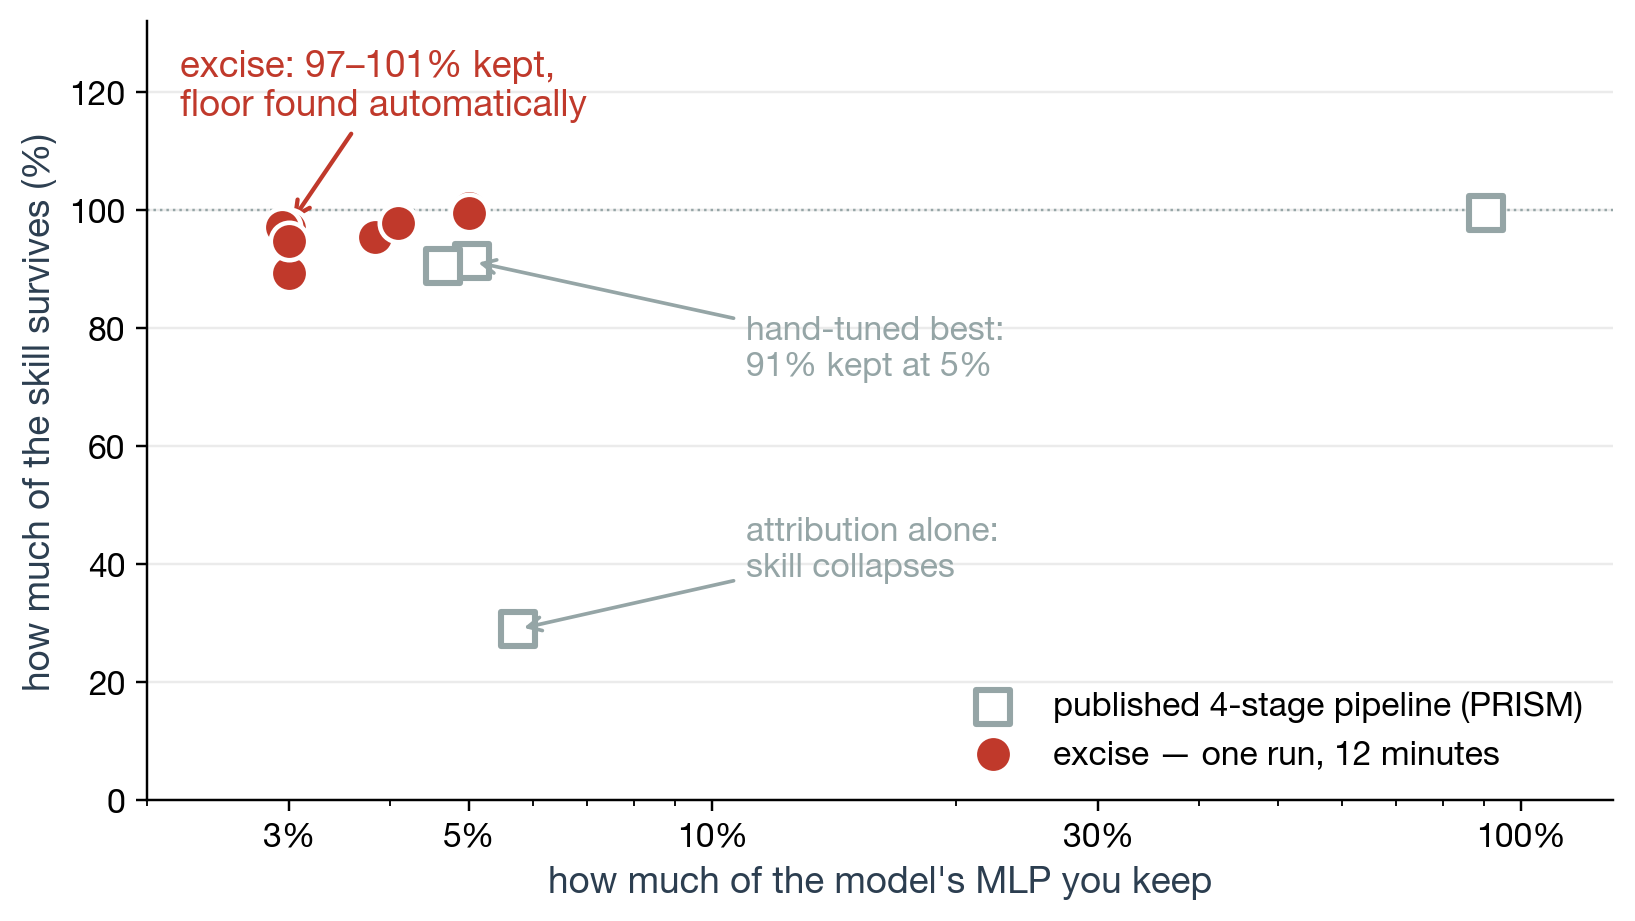
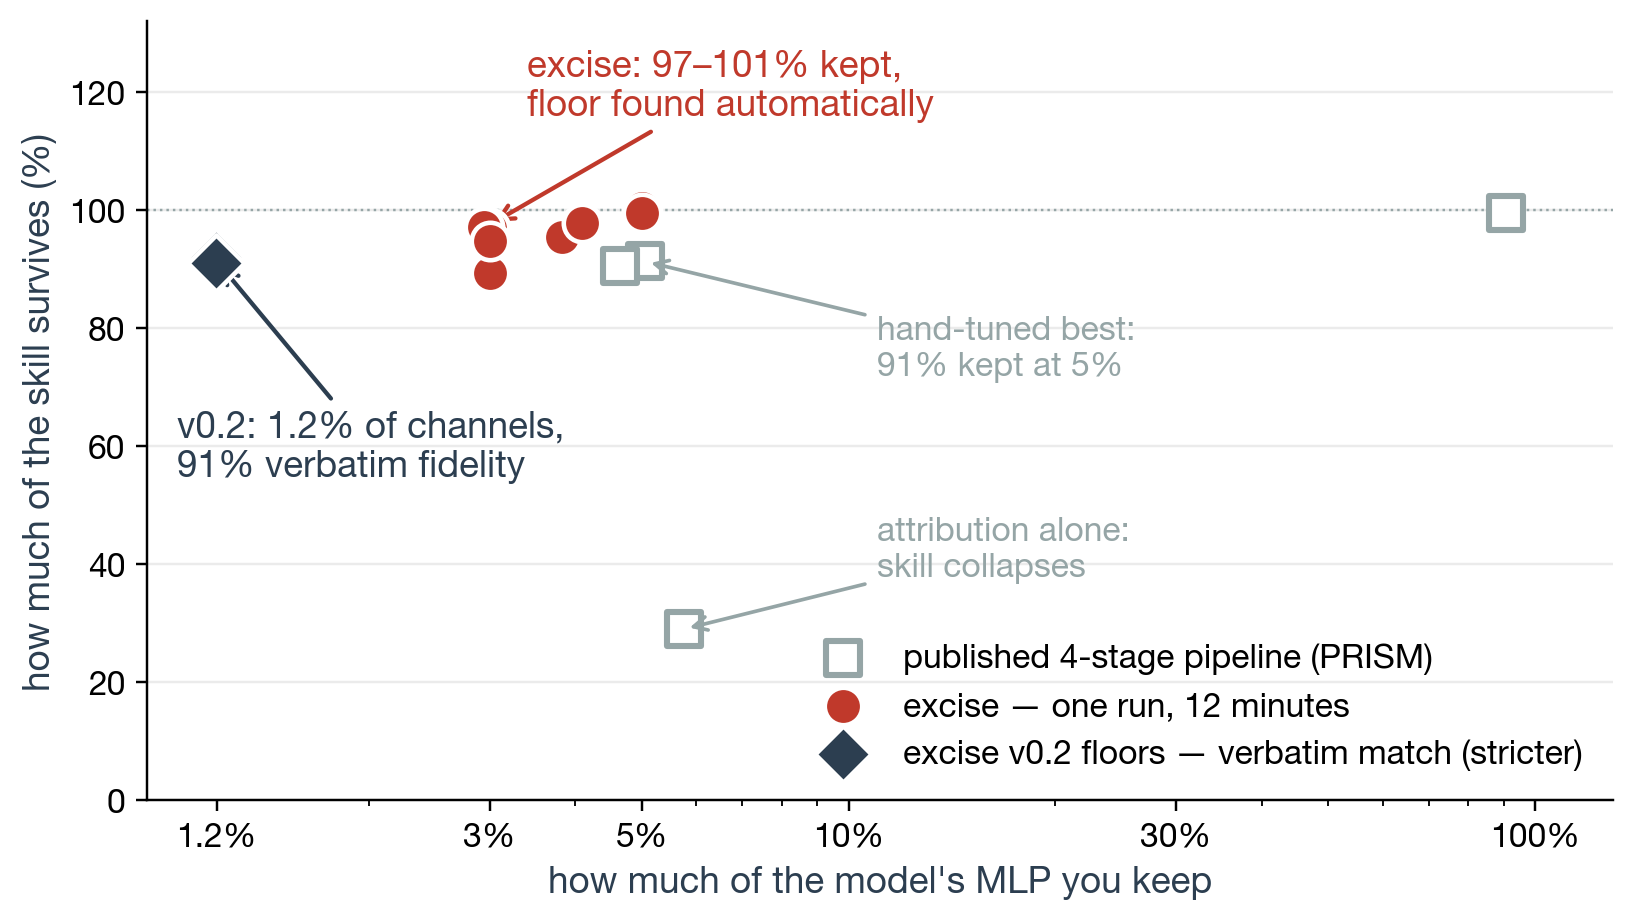
Graphs: v0.2 floor points on both frontier charts, hero bars updated to 0.17B/0.49B exports
Paper frontier gains an open-diamond series for the v0.2 library floors
(3 seeds at 1.2%, plotted by held verbatim self-match, which lower-bounds
recovery; caption states the metric). README frontier gets the same series
with an annotation, x-axis extended to 1.2%. Hero chart: arithmetic row
1.54B -> 0.17B at 91% fidelity, JSON row 1.58B -> 0.49B.

diff --git a/paper/make_readme_charts.py b/paper/make_readme_charts.py
@@ -27,9 +27,9 @@ RED, DARK, GRAY, LIGHT = "#c0392b", "#2c3e50", "#95a5a6", "#ecf0f1"
 
 def hero():
     rows = [  # (label, full B, sliced B, fidelity text, projected)
-        ("Arithmetic\nQwen2.5-Math-1.5B", 1.54, 0.42, "97% of the skill kept", False),
+        ("Arithmetic\nQwen2.5-Math-1.5B", 1.54, 0.17, "91% output fidelity at 9× smaller", False),
         ("Arithmetic (few-shot)\nSmolLM2-1.7B", 1.75, 0.59, "97% output fidelity", False),
-        ("JSON extraction\nQwen2.5-1.5B-Instruct", 1.58, 0.78, "90% output fidelity", False),
+        ("JSON extraction\nQwen2.5-1.5B-Instruct", 1.58, 0.49, "90% output fidelity", False),
         ("Function calling\nQwen3-4B", 4.02, 2.40, "~76% output fidelity", True),
     ]
     fig, ax = plt.subplots(figsize=(9.2, 4.0))
@@ -75,6 +75,14 @@ def frontier():
             ys.append(v["recovery"] * 100)
     ax.scatter(xs, ys, s=150, marker="o", color=RED, edgecolor="white",
                linewidth=1.5, zorder=4, label="excise — one run, 12 minutes")
+    v02 = []
+    for s in (42, 43, 44):
+        d = json.loads((ROOT / "vast_test" / "library_runs" / "v02" /
+                        f"arith_v02_long_s{s}" / "summary.json").read_text())
+        v02.append((d["floor"] * 100, d["frontier"][-1][1] * 100))
+    ax.scatter([p[0] for p in v02], [p[1] for p in v02], s=170, marker="D",
+               color=DARK, edgecolor="white", linewidth=1.5, zorder=5,
+               label="excise v0.2 floors — verbatim match (stricter)")
     ax.annotate("attribution alone:\nskill collapses", xy=(5.75, 29),
                 xytext=(11, 38), fontsize=11, color=GRAY,
                 arrowprops=dict(arrowstyle="->", color=GRAY, lw=1.2))
@@ -82,19 +90,24 @@ def frontier():
                 xytext=(11, 72), fontsize=11, color=GRAY,
                 arrowprops=dict(arrowstyle="->", color=GRAY, lw=1.2))
     ax.annotate("excise: 97–101% kept,\nfloor found automatically",
-                xy=(3.0, 97.5), xytext=(2.2, 116), fontsize=12, color=RED,
+                xy=(3.0, 97.5), xytext=(3.4, 116), fontsize=12, color=RED,
                 weight="bold",
                 arrowprops=dict(arrowstyle="->", color=RED, lw=1.4))
+    ax.annotate("v0.2: 1.2% of channels,\n91% verbatim fidelity",
+                xy=(1.2, 91.4), xytext=(1.05, 55), fontsize=12, color=DARK,
+                weight="bold",
+                arrowprops=dict(arrowstyle="->", color=DARK, lw=1.4))
     ax.set_xscale("log")
-    ax.set_xticks([3, 5, 10, 30, 100])
-    ax.set_xticklabels(["3%", "5%", "10%", "30%", "100%"], fontsize=11)
+    ax.set_xticks([1.2, 3, 5, 10, 30, 100])
+    ax.set_xticklabels(["1.2%", "3%", "5%", "10%", "30%", "100%"],
+                       fontsize=11)
     ax.tick_params(axis="y", labelsize=11)
     ax.set_xlabel("how much of the model's MLP you keep", fontsize=12,
                   color=DARK)
     ax.set_ylabel("how much of the skill survives (%)", fontsize=12,
                   color=DARK)
     ax.axhline(100, color=GRAY, lw=0.8, ls=":")
-    ax.set_xlim(2, 130)
+    ax.set_xlim(0.95, 130)
     ax.set_ylim(0, 132)
     ax.legend(loc="lower right", fontsize=11, frameon=False)
     ax.grid(axis="y", alpha=0.25)

diff --git a/paper/make_figures.py b/paper/make_figures.py
@@ -124,16 +124,28 @@ def fig_frontier():
     ax.scatter(xs, ys, s=46, marker="o", color=RED, edgecolor="white",
                linewidth=0.7, zorder=4,
                label="excise (one joint run; 3 seeds)")
+    v02 = []
+    for s in (42, 43, 44):
+        d = json.loads((ROOT / "library_runs" / "v02" /
+                        f"arith_v02_long_s{s}" / "summary.json").read_text())
+        v02.append((d["floor"] * 100, d["frontier"][-1][1] * 100))
+    ax.scatter([p[0] for p in v02], [p[1] for p in v02], s=42, marker="D",
+               facecolor="white", edgecolor=RED, linewidth=1.1, zorder=5,
+               label="v0.2 floors (verbatim; lower-bounds recovery)")
     ax.annotate("automatic floors:\n2.9–4.1%", xy=(2.95, 90),
-                xytext=(2.15, 66), fontsize=7.2, color=RED, ha="left",
+                xytext=(2.5, 60), fontsize=7.2, color=RED, ha="left",
+                arrowprops=dict(arrowstyle="-", color=RED, lw=0.7,
+                                shrinkB=5))
+    ax.annotate("v0.2: 1.2%", xy=(1.22, 91), xytext=(1.05, 70),
+                fontsize=7.2, color=RED, ha="left",
                 arrowprops=dict(arrowstyle="-", color=RED, lw=0.7,
                                 shrinkB=5))
     ax.set_xscale("log")
-    ax.set_xticks([2, 5, 10, 20, 50, 100])
-    ax.set_xticklabels(["2", "5", "10", "20", "50", "100"])
+    ax.set_xticks([1.2, 2, 5, 10, 20, 50, 100])
+    ax.set_xticklabels(["1.2", "2", "5", "10", "20", "50", "100"])
     ax.set_xlabel("MLP channels kept (%)")
     ax.set_ylabel("recovery (% of base accuracy)")
-    ax.set_xlim(2, 120)
+    ax.set_xlim(1, 120)
     ax.set_ylim(0, 112)
     ax.axhline(100, color=LGRAY, lw=0.7, ls=":", zorder=1)
     ax.legend(loc="lower right", frameon=False)

diff --git a/paper/excise.tex b/paper/excise.tex
@@ -71,8 +71,10 @@ compute for every result in this paper: under \$10 on one consumer GPU.
 Sparsity--recovery frontier for 2-digit addition on Qwen2.5-Math-1.5B. Gray
 squares: PRISM's staged pipeline as reported \citep{prism2026}. Red circles:
 a single \texttt{excise} run per seed (3 seeds) emits the entire frontier;
-the floors (2.9--4.1\%) were found by the controller, not swept. Caveats for
-this comparison in \S\ref{sec:honest}.}
+the floors (2.9--4.1\%) were found by the controller, not swept. Open
+diamonds: the released library's v0.2 floors (\S\ref{sec:v02}) --- all
+three seeds at 1.2\%, plotted by held-out verbatim self-match, which
+lower-bounds recovery. Caveats for this comparison in \S\ref{sec:honest}.}
 \label{fig:frontier}
 \end{figure}
 